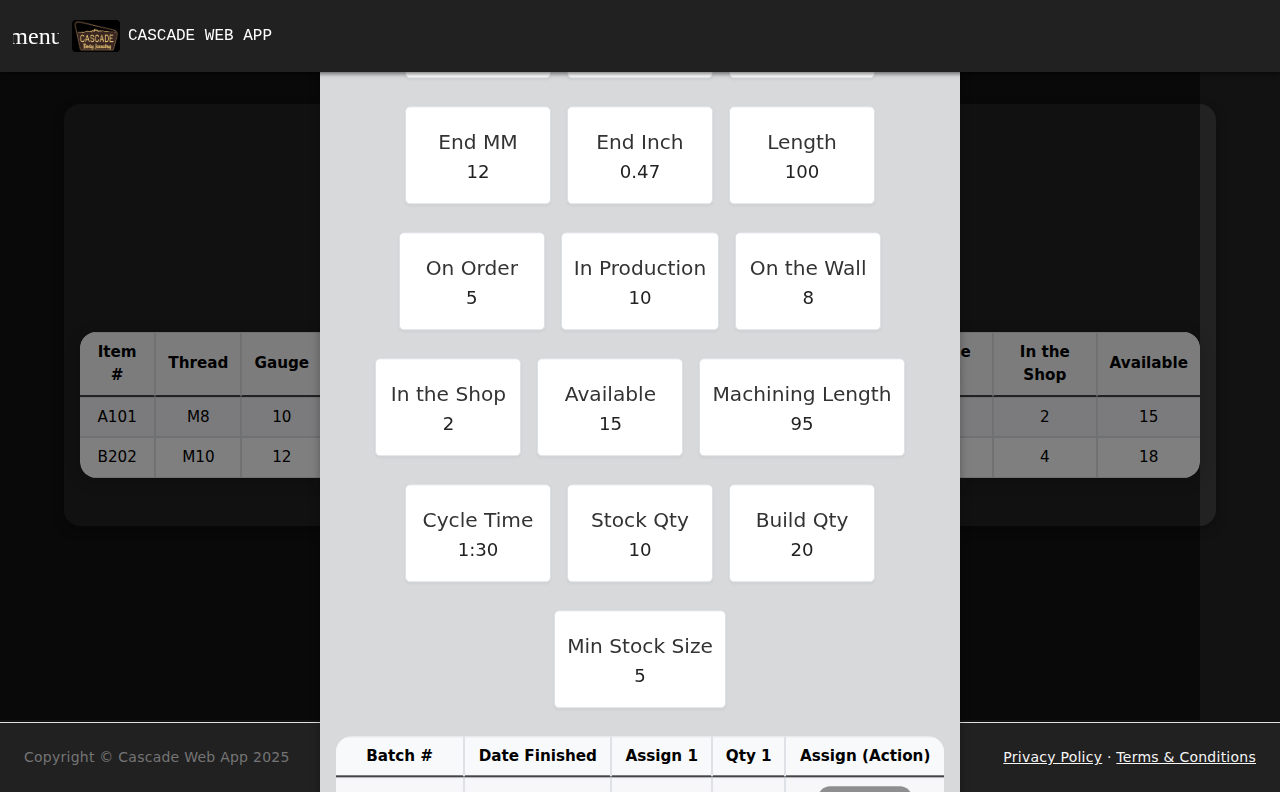
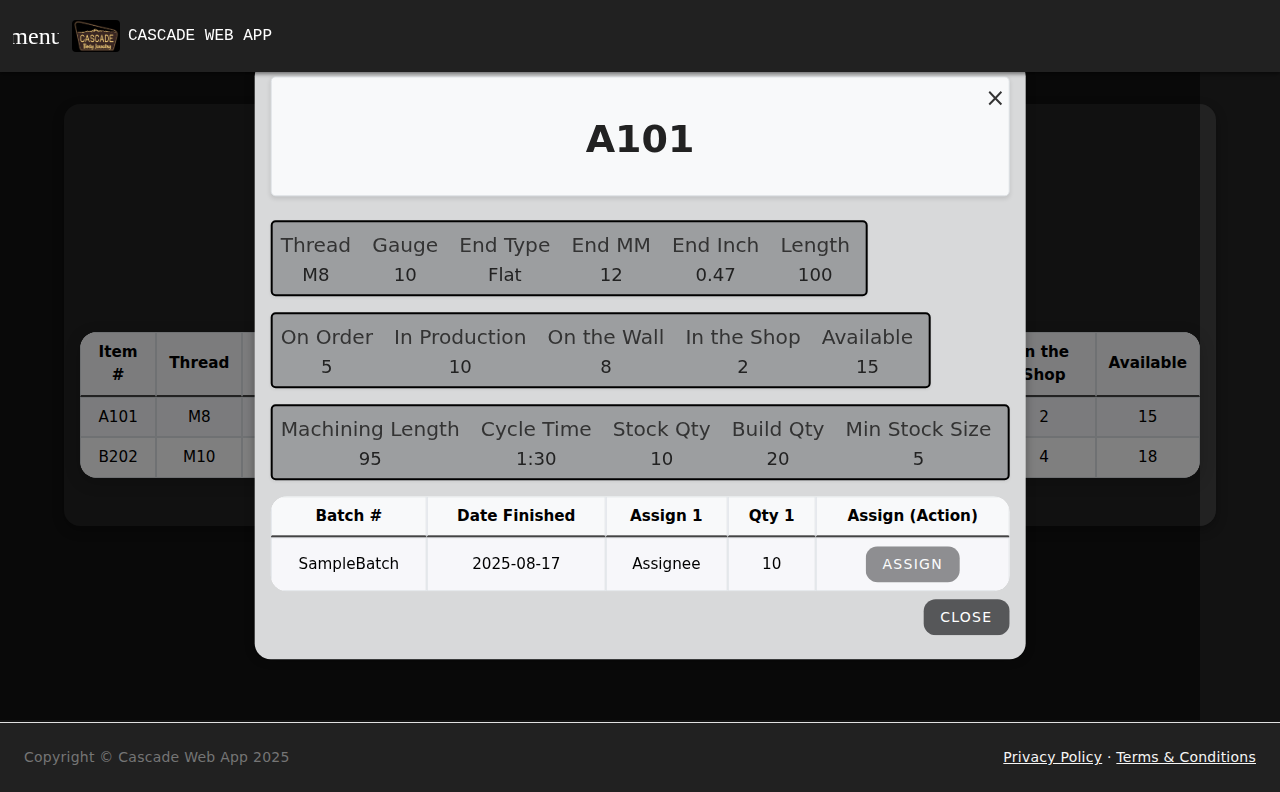
Update modal field containers to hug content with inline-block layout

diff --git a/CascadeWebApp/Pages/Items/Index.razor.css b/CascadeWebApp/Pages/Items/Index.razor.css
@@ -10,26 +10,18 @@
 
 /* Row-based layout for items modal */
 .modal-row {
-    display: flex;
-    justify-content: center;
-    gap: 1rem;
-    margin-bottom: 0.25rem;
-    flex-wrap: wrap;
-    align-items: flex-start; /* ensures all boxes in the row have the same height */
+    display: inline-block !important; /* Use inline-block for content hugging */
+    white-space: nowrap !important; /* Keep all fields on single line */
+    margin-bottom: 0;
 }
 
-.modal-row .modal-detail-field {
-    flex: 0 0 auto; /* flex to fit content but don't grow or shrink unnecessarily */
-    min-width: 0 !important; /* small minimum for very short content */
-    max-width: none; /* no maximum width - let content determine */
-}
+/* Removed flex-specific rule since using inline-block layout */
 
 .modal-field-container {
     border: 2px solid black !important;
     background: #9c9ea0 !important;
-    display: flex; /* Use flex to contain the row */
-    align-self: flex-start; /* Ensure all children have the same height */
-    justify-content: center;
+    display: inline-block !important; /* Use inline-block to hug content */
+    white-space: nowrap !important; /* Prevent wrapping, keep content on single line */
     padding: 0.25rem;
     box-sizing: border-box;
     margin-bottom: 1rem;
@@ -41,21 +33,20 @@
     min-height: 0 !important;
     height: auto !important;
     max-height: none !important;
-    flex: 0 0 auto !important;
 }
 
 .modal-detail-field {
-    display: flex;
-    flex-direction: column;
-    align-items: center;
+    display: inline-block !important; /* Use inline-block for content hugging */
+    vertical-align: top; /* Align tops of fields */
     text-align: center;
+    width: auto !important; /* Let content determine width */
+    max-width: none !important; /* No maximum width restriction */
     min-width: 0 !important;
     min-height: 0 !important;
-    width: auto !important;
     height: auto !important;
-    margin: 0;
+    margin: 0 0.5rem 0 0; /* Small right margin for spacing between fields */
     padding: 0.25rem 0.25rem; /* Add some internal padding */
-    flex-wrap: nowrap; /* Prevent text wrapping */
+    white-space: nowrap; /* Prevent text wrapping within field */
 }
 
 /* Modal title field (first field, no label, centered, larger) */
@@ -74,6 +65,7 @@
     color: #333; /* Dark color for readability */
     font-weight: 500;
     margin-bottom: 0.25rem;
+    display: block; /* Stack vertically within the field */
 }
 
 .modal-detail-value {
@@ -81,6 +73,7 @@
     color: #222; /* Very dark color for values */
     font-weight: 400;
     line-height: 1.2;
+    display: block; /* Stack vertically within the field */
 }
 
 /* Table styles for modal content */
